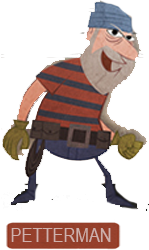
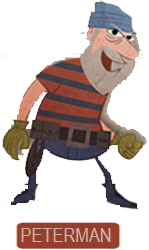
cambios chicos respecto a tiles que necesitan q preguntes antes de entrar

Changed region(s): [[0.0268, 0.868, 0.2685, 1.0], [0.9933, 0.812, 1.0, 0.84]]

diff --git a/Burgle Bros/Game/Controller/src/GameState.h b/Burgle Bros/Game/Controller/src/GameState.h
@@ -39,7 +39,7 @@ struct GameState_ : public msm::front::state_machine_def<GameState_>
 	template <class EVT, class FSM>
 	void on_entry(EVT const&  event, FSM& fsm)
 	{
-		fsm.model->currentPlayer()->setCharacter(ACROBAT);
+		fsm.model->currentPlayer()->setCharacter(PETERMAN);
 		fsm.model->otherPlayer()->setCharacter(SPOTTER);
 		fsm.model->currentPlayer()->setName(string("Prueba"));
 		fsm.model->otherPlayer()->setName(string("Resto"));
@@ -240,19 +240,44 @@ struct GameState_ : public msm::front::state_machine_def<GameState_>
 		}
 	};
 
+	struct askb4Move
+	{
+		template <class EVT, class FSM, class SourceState, class TargetState>
+		void operator()(EVT const& event, FSM& fsm, SourceState& source, TargetState& target)
+		{
+			std::cout << "Preparing to move to " << event.c << std::endl;
+			fsm.model->currentPlayer()->setDest(event.c);
+			if (!(fsm.model->currentPlayer()->needConfirmationToMove(event.c)))
+			{
+				fsm.process_event(ev::done());
+			}
+			fsm.currentAction = MOVE;
+		}
+	};
+
 	struct doMove
 	{
 		template <class EVT, class FSM, class SourceState, class TargetState>
 		void operator()(EVT const& event, FSM& fsm, SourceState& source, TargetState& target)
 		{
-			std::cout << "Moving to  " << event.c << std::endl;
-			bool b = fsm.model->currentPlayer()->move(event.c);
+			std::cout << "Moving to  " << fsm.model->currentPlayer()->getDest() << std::endl;
+			bool b = fsm.model->currentPlayer()->move(fsm.model->currentPlayer()->getDest());
+			fsm.model->currentPlayer()->setDest(NPOS);
 			if (b == false)
 				std::cout << "Cant move!" << std::endl;
 			else if (fsm.model->currentPlayer()->getCharacter() != toEnum_characterType("ACROBAT"))
 				fsm.model->getBoard()->checkOnePlayer(fsm.model->currentPlayer(), fsm.model->currentPlayer()->getPosition().floor);
 			fsm.model->check4Cameras();
 			fsm.currentAction = NO_TYPE;
+		}
+	};
+
+	struct dontMove
+	{
+		template <class EVT, class FSM, class SourceState, class TargetState>
+		void operator()(EVT const& event, FSM& fsm, SourceState& source, TargetState& target)
+		{
+
 		}
 	};
 
@@ -449,7 +474,7 @@ struct GameState_ : public msm::front::state_machine_def<GameState_>
 			fsm.model->moveGuard();
 			if (fsm.model->guardIsMoving() == false)
 			{
-				fsm.process_event(ev::pass());
+				fsm.process_event(ev::passGuard());
 				fsm.guardTimer->stop();
 			}
 		}
@@ -624,7 +649,7 @@ struct GameState_ : public msm::front::state_machine_def<GameState_>
 		Row < chooseAction		, ev::pass			, guardTurn			, none				, none				>,
 		Row < chooseAction		, ev::movee			, none				, showMove			, none				>,
 		Row < chooseAction		, ev::peek			, none				, showPeek			, none				>,
-		Row < chooseAction		, ev::coord			, chekActionTokens	, doMove			, isMoving			>,
+		Row < chooseAction		, ev::coord			, askConfirmation	, askb4Move			, isMoving			>,
 		Row < chooseAction		, ev::coord			, chekActionTokens	, doPeek			, isPeeking			>,
 		Row	< chooseAction		, ev::coord			, chekActionTokens	, doCreateAlarm		, isCreatingAlarm   >,
 		Row	< chooseAction		, ev::coord			, chooseAction		, doPlaceCrow		, isPlacingCrow		>,
@@ -645,13 +670,16 @@ struct GameState_ : public msm::front::state_machine_def<GameState_>
 		Row < askConfirmation	, ev::no			, chekActionTokens	, dontAddToken		, isAddingToken		>,
 		Row < askConfirmation	, ev::yes			, chekActionTokens	, doThrowDice		, isThrowingDice	>,
 		Row < askConfirmation	, ev::no			, chekActionTokens	, dontThrowDice		, isThrowingDice	>,
+		Row < askConfirmation	, ev::yes			, chekActionTokens	, doMove			, isMoving			>,
+		Row < askConfirmation	, ev::no			, chekActionTokens	, dontMove			, isMoving			>,
+		Row < askConfirmation	, ev::done			, chekActionTokens	, doMove			, isMoving			>,
 		//  +------------+-------------+------------+--------------+--------------+
 		//  +------------+-------------+------------+--------------+--------------+
 		Row < chekActionTokens	, ev::no			, guardTurn			, none				, none				>,
 		Row < chekActionTokens	, ev::yes			, chooseAction		, none				, none				>,
 		//  +------------+-------------+------------+--------------+--------------+
 		Row < guardTurn			, ev::movee			, none				, moveGuard			, none				>,
-		Row < guardTurn			, ev::pass			, chooseAction		, changeTurn		, none				>,
+		Row < guardTurn			, ev::passGuard		, chooseAction		, changeTurn		, none				>,
 		Row < guardTurn			, ev::gameOver		, gameEnded			, none				, none				>,
 		//  +------------+-------------+------------+--------------+--------------+
 		Row < gameEnded			, ev::playAgain		, chooseAction		, resetGame			, none				>

diff --git a/Burgle Bros/Game/Model/src/GameModel.cpp b/Burgle Bros/Game/Model/src/GameModel.cpp
@@ -101,36 +101,41 @@ void GameModel::moveGuard()
 	if (board.getFloor(floor)->getGuard()->getPos() == NPOS)
 	{
 		board.getFloor(floor)->getGuard()->locateGuard();
-		if (board.getFloor(floor)->tile(board.getFloor(floor)->getGuard()->getPos().col, board.getFloor(floor)->getGuard()->getPos().row)->is(CAMERA) && board.getFloor(floor)->tile(board.getFloor(floor)->getGuard()->getPos().col, board.getFloor(floor)->getGuard()->getPos().row)->isFlipped())
+		board.getTile(board.getFloor(floor)->getGuard()->getPos())->guardIs(true);
+		if (board.getTile(board.getFloor(floor)->getGuard()->getPos())->is(CAMERA) && board.getTile(board.getFloor(floor)->getGuard()->getPos())->isFlipped())
 		{
 			for (auto &it : board.getCameras())
 			{
 				if (!(it->getPos() == board.getFloor(floor)->getGuard()->getPos()) && it->getPos() == currentPlayer_->getPosition())
 				{
-					board[floor].tile(currentPlayer_->getPosition().col, currentPlayer_->getPosition().row)->setAlarm(true);
+					board.getTile(currentPlayer_->getPosition())->setAlarm(true);
 				}
 				else if (!(it->getPos() == board.getFloor(floor)->getGuard()->getPos()) && it->getPos() == otherPlayer_->getPosition())
 				{
 					
-					board.getFloor(otherPlayer_->getPosition().floor)->tile(otherPlayer_->getPosition().col, otherPlayer_->getPosition().row)->setAlarm(true);
+					board.getTile(otherPlayer_->getPosition())->setAlarm(true);
 				}
 			}
 		}
+
 	}
+	else board.getTile(board.getFloor(floor)->getGuard()->getPos())->guardIs(false);
 	
 	guardIsMoving_ = board.getFloor(floor)->moveGuard(currentPlayer_);
-	if (board.getFloor(floor)->tile(board.getFloor(floor)->getGuard()->getPos().col, board.getFloor(floor)->getGuard()->getPos().row)->is(CAMERA) && board.getFloor(floor)->tile(board.getFloor(floor)->getGuard()->getPos().col, board.getFloor(floor)->getGuard()->getPos().row)->isFlipped())
+	board.getTile(board.getFloor(floor)->getGuard()->getPos())->guardIs(true);
+
+	if (board.getTile(board.getFloor(floor)->getGuard()->getPos())->is(CAMERA) && board.getTile(board.getFloor(floor)->getGuard()->getPos())->isFlipped())
 	{
 		for (auto &it : board.getCameras())
 		{
 			if (!(it->getPos() == board.getFloor(floor)->getGuard()->getPos()) && it->getPos() == currentPlayer_->getPosition())
 			{
-				board[floor].tile(currentPlayer_->getPosition().col, currentPlayer_->getPosition().row)->setAlarm(true);
+				board.getTile(currentPlayer_->getPosition())->setAlarm(true);
 			}
 			else if (!(it->getPos() == board.getFloor(floor)->getGuard()->getPos()) && it->getPos() == otherPlayer_->getPosition())
 			{
 
-				board.getFloor(otherPlayer_->getPosition().floor)->tile(otherPlayer_->getPosition().col, otherPlayer_->getPosition().row)->setAlarm(true);
+				board.getTile(otherPlayer_->getPosition())->setAlarm(true);
 			}
 		}
 	}

diff --git a/Burgle Bros/Game/Model/src/Player.h b/Burgle Bros/Game/Model/src/Player.h
@@ -34,6 +34,9 @@ public:
 	//	Add the amount of stealth tokens you want
 	void setStealthTokens(int i) { stealthTokens = i; };
 
+	// Get player current Destination
+	void setDest(Coord c) { if (c.row < F_HEIGHT && c.col < F_WIDTH && c.floor < NUMBER_FLOORS) destination = c; };
+
 	// GETTERS
 
 	//	Get player name
@@ -71,6 +74,9 @@ public:
 
 	// Get the turn number
 	int getTurn() { return turn; };
+
+	// Get player current Destination
+	Coord getDest() { return destination; };
 
 
 	// MISC
@@ -130,10 +136,10 @@ public:
 	//
 	virtual void addLoot(lootType l)override;
 
-	// Return true if the player has the specified loot
+	//	Return true if the player has the specified loot
 	virtual bool has(lootType l)override;
 
-	// Returns true if the player has at least one loot.
+	//	Returns true if the player has at least one loot.
 	virtual bool hasLoot()override;
 
 	//	Retrun true if the guard can see the player from that position
@@ -148,7 +154,11 @@ public:
 	//	Adds a coordinate to the list of coordinates the player is visible from
 	virtual void addVisibleTile(Coord tile)override;
 
+	//	Returns true if user is required to confirm movement or action
+	bool Player::needConfirmation(Coord c);
 
+	//	Returns true if user is required to confirm movement
+	bool Player::needConfirmationToMove(Coord c);
 
 	// REVISAR DE ACA PA BAJO
 
@@ -197,7 +207,7 @@ private:
 	// If its player turn playing=true
 	bool playing;
 	//
-	Coord lastPos;
+	Coord lastPos, destination;
 	// Character the player is using
 	Character * character;
 	// Tile where character token is placed on the board

diff --git a/Burgle Bros/Game/Model/src/Player.cpp b/Burgle Bros/Game/Model/src/Player.cpp
@@ -9,6 +9,7 @@ Player::Player(Board * b, Player * p, int n)
 	resetActionTokens();
 	crowToken = NPOS;
 	lastPos = NPOS;
+	destination = NPOS;
 	stealthTokens = NUMBER_STEALTH_TOKENS;
 	currentTile = nullptr;
 	character = nullptr;
@@ -56,15 +57,20 @@ bool Player::has(lootType l)
 			return true;
 	return false;
 }
-/*
+
+bool Player::needConfirmation(Coord c)
+{
+	return needConfirmationToMove(c);
+};
+
 bool Player::needConfirmationToMove(Coord c)
 {
-	tileType t = board->getTile(c)->getType();
-	if (t == DEADBOLT)
-		return true;
-	else
-		return false;
-}*/
+	bool  b = false;
+	if (board->getTile(c)->is(DEADBOLT) && !(board->getTile(c)->guardHere() || c == otherPlayer->getPosition()) && ((this->getActionTokens() >= 3 && board->getTile(c)->isFlipped() == true) ||(this->getActionTokens() >= 4 && board->getTile(c)->isFlipped() == false)))
+		b = true;
+	if (board->getTile(c)->is(LASER) && (((this->getActionTokens() >= 3) && board->getTile(c)->isFlipped() == false) || ((this->getActionTokens() >= 2) && board->getTile(c)->isFlipped() == false))) b = true;
+	return b;
+}
 void Player::resetActionTokens()
 {
 	actionTokens = NUMBER_ACTION_TOKENS;

diff --git a/Burgle Bros/Game/Model/src/Tiles/Safe.cpp b/Burgle Bros/Game/Model/src/Tiles/Safe.cpp
@@ -7,12 +7,13 @@ Safe::~Safe()
 
 vector<string> Safe::getActions(PlayerInterface * player) 
 {
+	int b = (player->getCharacter() == PETERMAN) ? 1 : 0;
 	vector<string> actions(Tile::getActions(player));
 	if (safeIsOpen() == false)		
 	{		
 		if (dices < 6 && player->getActionTokens() >= 2)
 			actions.push_back("ADD_TOKEN");
-		if (dices > 0 && player->getActionTokens() >= 1)
+		if ((dices + b) > 0 && player->getActionTokens() >= 1)
 			actions.push_back("THROW_DICE");
 	}
 	return actions;
@@ -32,7 +33,7 @@ bool Safe::doAction(string action, PlayerInterface * player)
 	else if (action == "THROW_DICE")
 	{
 		player->removeActionToken();		// remove an action
-		for (int i = 0; i < dices && !safeIsOpen() + b ; i++)		// while the safe remains closed, throw all the dice you have
+		for (int i = 0; i < (dices + b) && !safeIsOpen()  ; i++)		// while the safe remains closed, throw all the dice you have
 		{
 			trySafeNumber(rand()%6+1);			// check how many tiles you cracked throwing one die
 

diff --git a/Burgle Bros/Game/Controller/src/events.h b/Burgle Bros/Game/Controller/src/events.h
@@ -26,6 +26,7 @@ namespace ev {
 	struct addToken : BaseEvent {};
 	struct addDice : BaseEvent {};
 	struct pass : BaseEvent {};
+	struct passGuard : BaseEvent {};
 	struct pause : BaseEvent {};
 	struct resume : BaseEvent {};
 	struct gameOver : BaseEvent {};
@@ -43,6 +44,7 @@ namespace ev {
 	struct pickUpLoot : BaseEvent {};
 	struct yes : BaseEvent {};
 	struct no : BaseEvent {};
+	struct done : BaseEvent {};
 	struct ok : BaseEvent {};
 	struct render : BaseEvent {};
 	struct coord : BaseEvent
